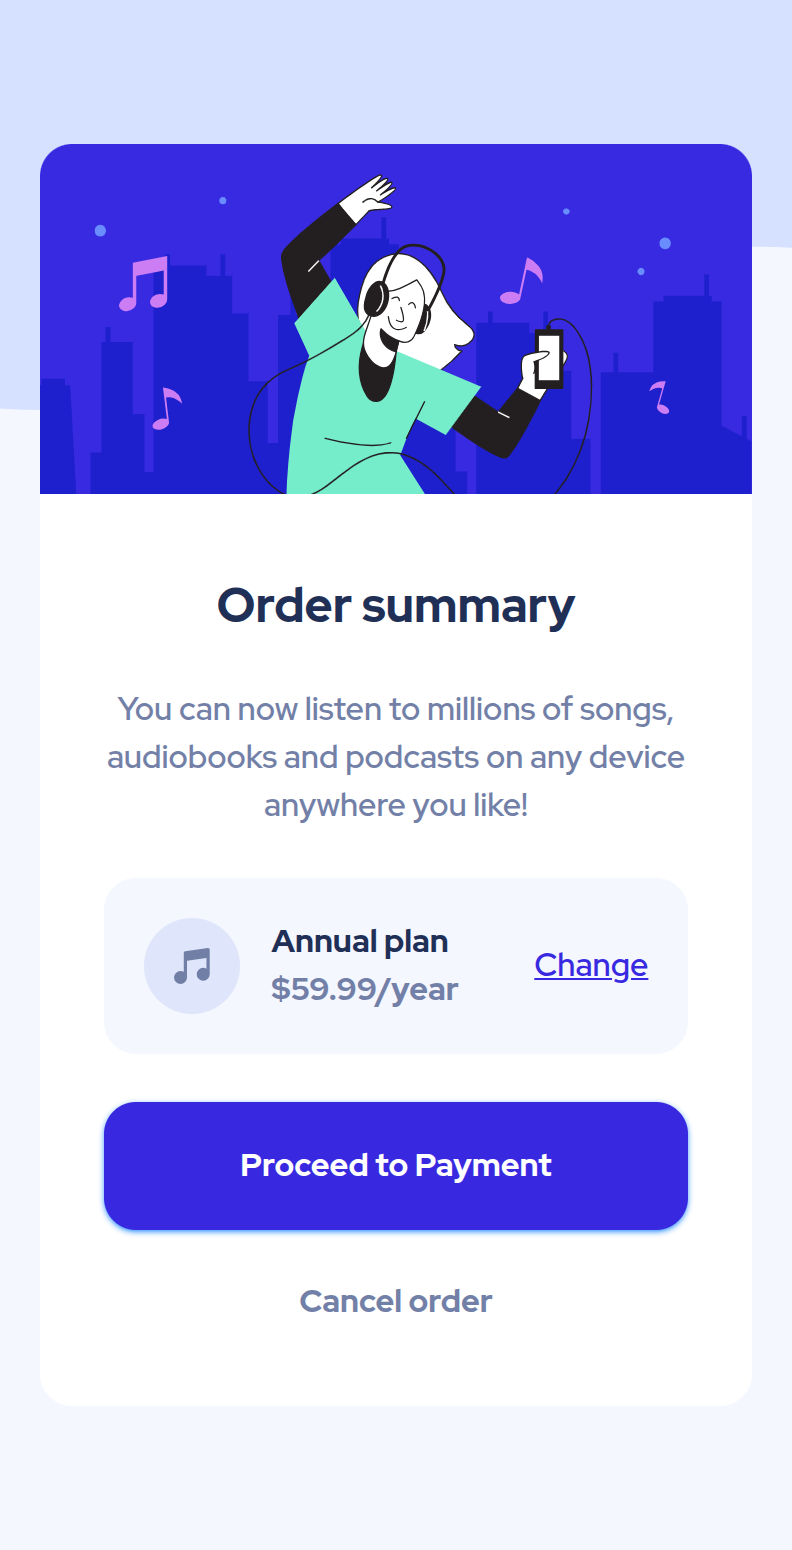
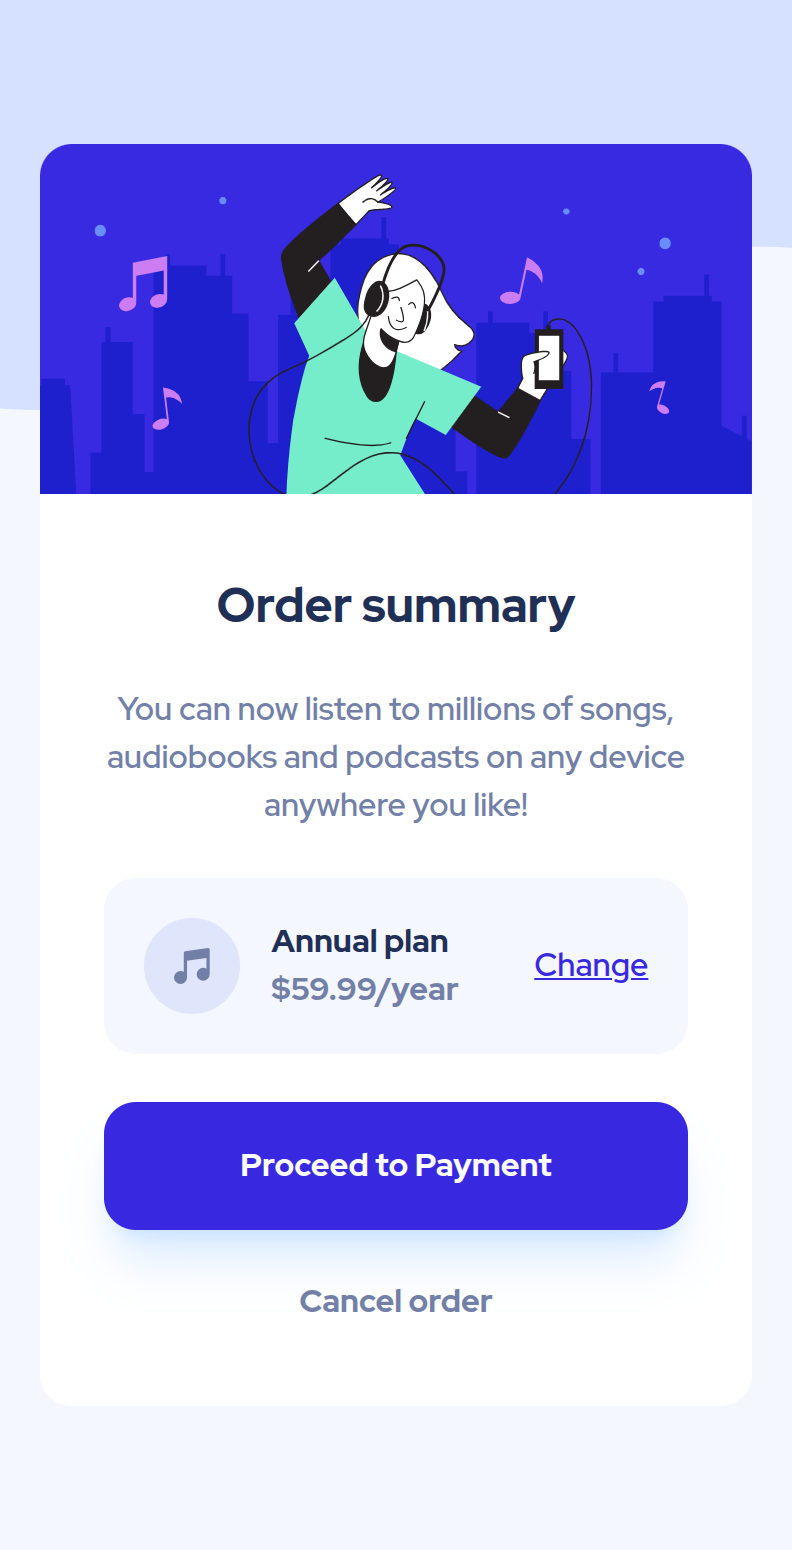
fix: update box shadow

Changed region(s): [[0.1515, 0.7742, 0.8485, 0.8052], [0.8485, 0.7123, 0.8788, 0.7742], [0.1212, 0.7123, 0.1515, 0.7742]]

diff --git a/src/App.tsx b/src/App.tsx
@@ -29,7 +29,7 @@ function App() {
               Change
             </p>
           </div>
-          <button className="p-5 bg-blue-700 text-white font-extrabold w-full rounded-2xl shadow shadow-blue-400  hover:scale-[1.02] active-state hover:bg-accent">
+          <button className="p-5 bg-blue-700 text-white font-extrabold w-full rounded-2xl shadow-xl/20 shadow-blue-400  hover:scale-[1.02] active-state hover:bg-accent">
             Proceed to Payment
           </button>
           <button className="w-full font-extrabold text-gray-600 hover:text-black  active-state">
